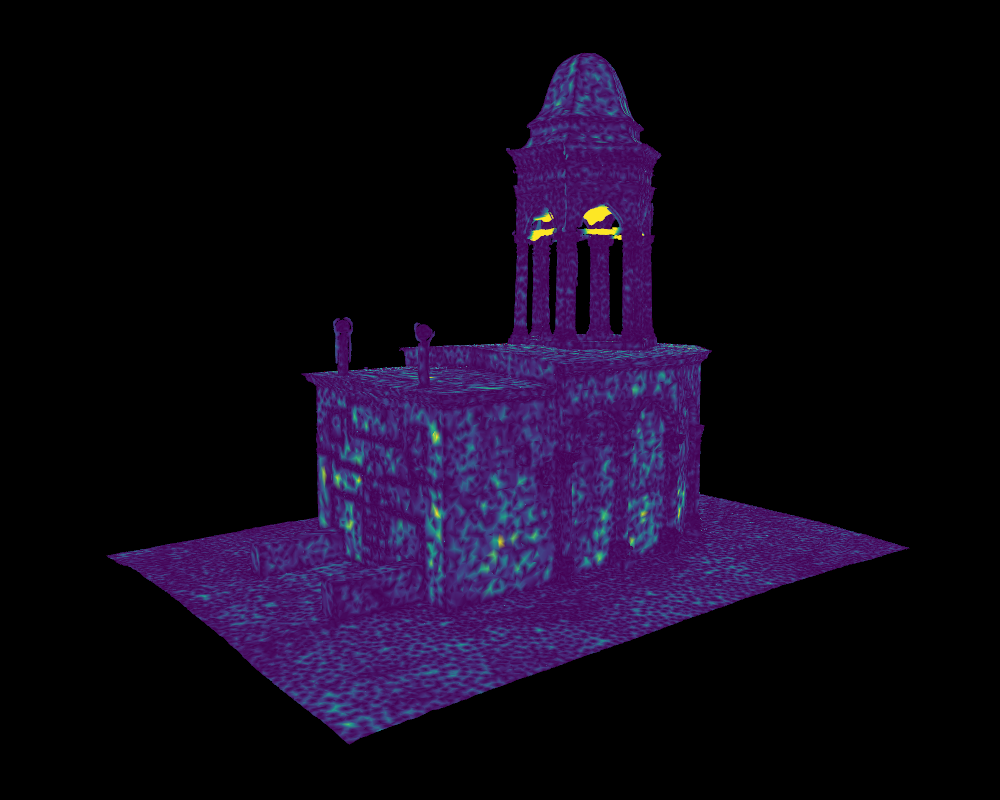
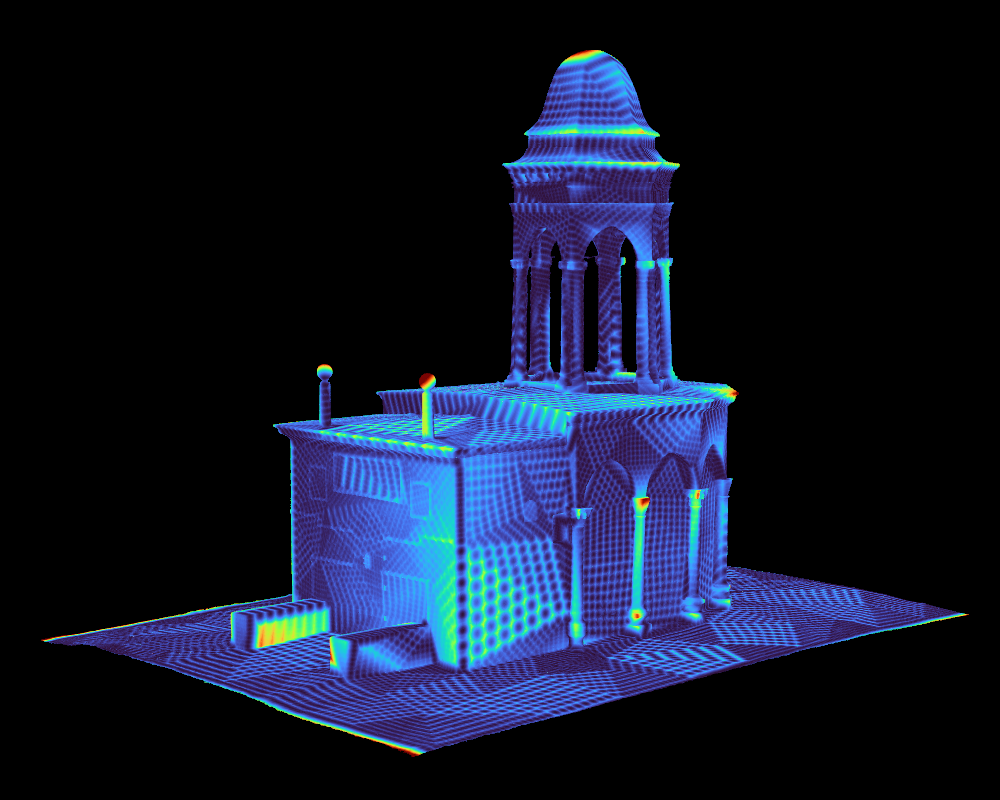
Unify color palette for mesh_dist script
- change color palette to turbo to match the other scripts in the repository

- improve mesh loading by enabling post-processing on the meshes (enables to load meshes containing other than non-triangle primitives) and ignoring textures

Changed region(s): [[0.031, 0.0625, 0.961, 0.9688]]

diff --git a/scripts/mesh_dist.py b/scripts/mesh_dist.py
@@ -100,8 +100,9 @@ parser.add_argument(
 
 
 def main(args):
-    mesh_A = o3d.io.read_triangle_mesh(args.mesh_A, print_progress=True)
-    mesh_B = o3d.io.read_triangle_mesh(args.mesh_B, print_progress=True)
+    # - enable mesh post-processing to filter out incompatible geometry primitives
+    mesh_A = o3d.io.read_triangle_mesh(args.mesh_A, enable_post_processing=True, print_progress=True)
+    mesh_B = o3d.io.read_triangle_mesh(args.mesh_B, enable_post_processing=True, print_progress=True)
 
     tris_A_num_init = np.asarray(mesh_A.triangles).shape[0]
     tris_B_num_init = np.asarray(mesh_B.triangles).shape[0]
@@ -194,9 +195,11 @@ def main(args):
     dists_max = np.max(dists)
     dists_norm = (dists - dists_min) / (dists_max - dists_min)
 
-    cmap = plt.get_cmap("viridis")
+    cmap = plt.get_cmap("turbo")
     rgb = cmap(dists_norm).squeeze()[:, 0:3]
     mesh_A.vertex_colors = o3d.utility.Vector3dVector(rgb)
+    # - remove UV mapping to show the colors and not a texture
+    mesh_A.triangle_uvs = o3d.utility.Vector2dVector([])
 
     if args.dont_visualize:
         vis = o3d.visualization.Visualizer()
